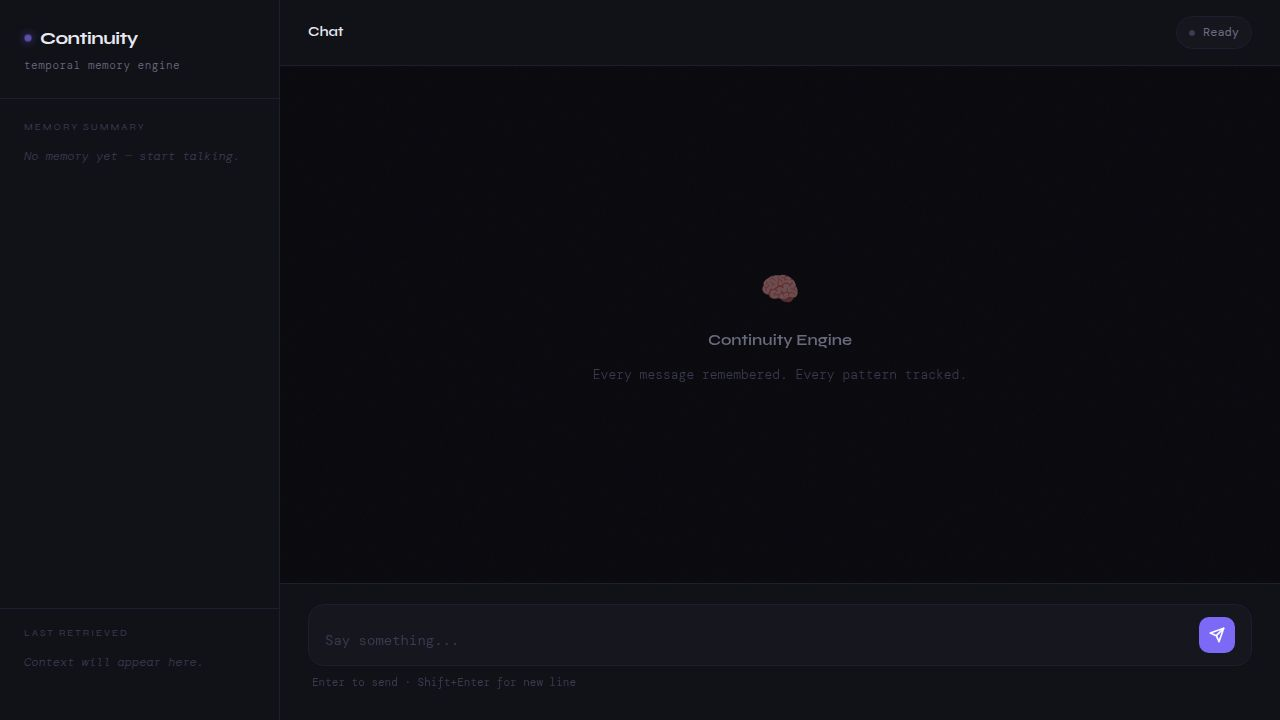
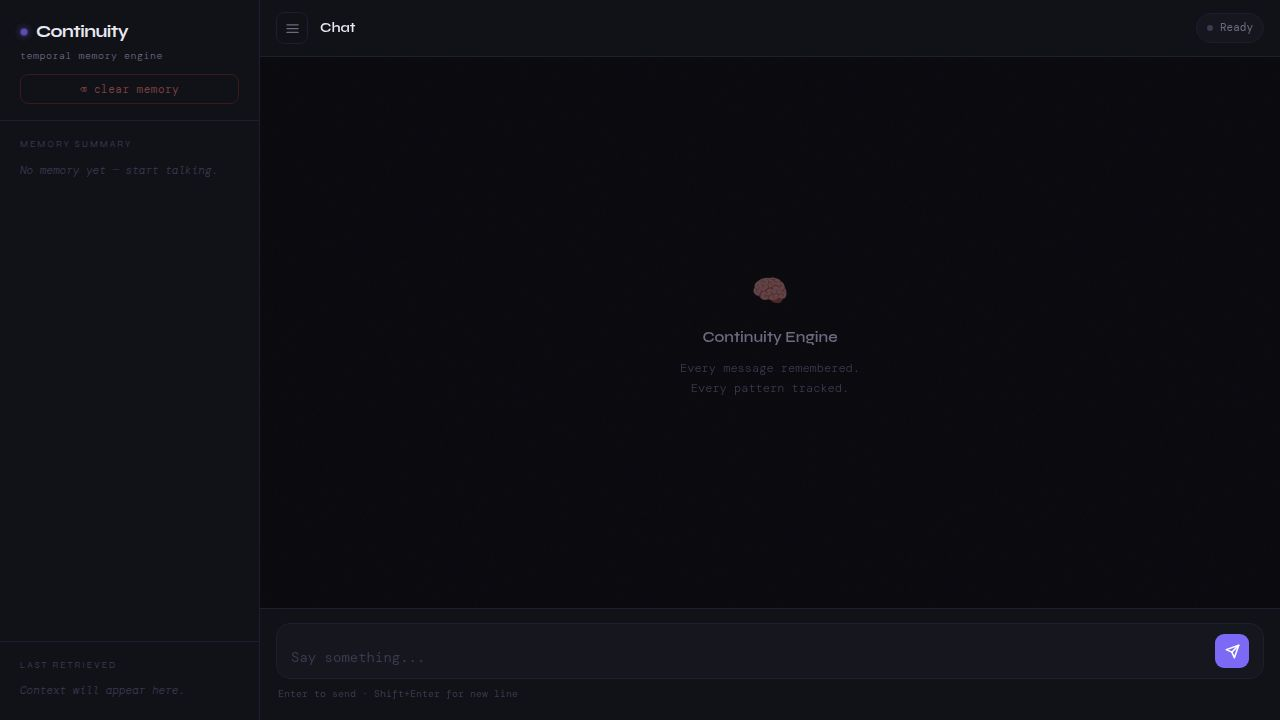
Improve AI responsiveness and fix mobile UI glitches
Enhance AI system prompt for better context adherence and adjust mobile sidebar behavior for improved usability and button accessibility.

Replit-Commit-Author: Agent
Replit-Commit-Session-Id: 379f7388-f360-40ee-a12c-a0aecd8bb303
Replit-Commit-Checkpoint-Type: full_checkpoint
Replit-Commit-Event-Id: c72edeec-4dd7-435f-bc79-50a27c6428c1
Replit-Commit-Screenshot-Url: https://storage.googleapis.com/screenshot-production-us-central1/51529380-f3c0-4dd7-a1a0-9c8892a0a337/379f7388-f360-40ee-a12c-a0aecd8bb303/yf2DJK3
Replit-Helium-Checkpoint-Created: true

diff --git a/continuity_engine/templates/index.html b/continuity_engine/templates/index.html
@@ -555,19 +555,47 @@
     .empty-sub { font-size: 12px; font-family: 'DM Mono', monospace; font-weight: 300; text-align: center; }
 
     /* ── RESPONSIVE ── */
-    @media (max-width: 600px) {
+    @media (max-width: 640px) {
       :root { --sidebar-w: 80vw; }
-      .sidebar { position: absolute; top: 0; left: 0; height: 100%; z-index: 10; }
-      .sidebar.collapsed { width: 0; }
-      .mem-label { display: none; }
+
+      /* on mobile, sidebar slides over the top */
+      .sidebar {
+        position: fixed;
+        top: 0; left: 0;
+        height: 100%;
+        z-index: 20;
+      }
+
+      /* overlay to close sidebar by tapping outside */
+      .sidebar-overlay {
+        display: block;
+        position: fixed;
+        inset: 0;
+        background: rgba(0,0,0,0.5);
+        z-index: 19;
+        opacity: 1;
+        transition: opacity 0.25s;
+      }
+
+      .sidebar.collapsed + .sidebar-overlay,
+      .sidebar-overlay.hidden {
+        opacity: 0;
+        pointer-events: none;
+      }
+
+      .toggle-btn { z-index: 21; }
+      .topbar { z-index: 21; position: relative; }
     }
+
+    /* hide overlay on desktop */
+    .sidebar-overlay { display: none; }
   </style>
 </head>
 <body>
 <div class="app">
 
   <!-- SIDEBAR -->
-  <aside class="sidebar" id="sidebar">
+  <aside class="sidebar collapsed" id="sidebar">
     <div class="sidebar-header">
       <div class="logo">
         <div class="logo-dot"></div>
@@ -593,6 +621,9 @@
       </div>
     </div>
   </aside>
+
+  <!-- mobile overlay (tap to close sidebar) -->
+  <div class="sidebar-overlay hidden" id="sidebar-overlay"></div>
 
   <!-- MAIN -->
   <main class="main">
@@ -653,13 +684,35 @@
   const sidebar      = document.getElementById('sidebar');
   const toggleBtn    = document.getElementById('toggle-btn');
   const clearBtn     = document.getElementById('clear-btn');
+  const overlay      = document.getElementById('sidebar-overlay');
 
   let isLoading = false;
+  const isMobile = () => window.innerWidth <= 640;
 
   /* ── SIDEBAR TOGGLE ── */
+  function openSidebar() {
+    sidebar.classList.remove('collapsed');
+    overlay.classList.remove('hidden');
+  }
+
+  function closeSidebar() {
+    sidebar.classList.add('collapsed');
+    overlay.classList.add('hidden');
+  }
+
+  /* desktop: open by default */
+  if (!isMobile()) openSidebar();
+
   toggleBtn.addEventListener('click', () => {
-    sidebar.classList.toggle('collapsed');
+    if (sidebar.classList.contains('collapsed')) {
+      openSidebar();
+    } else {
+      closeSidebar();
+    }
   });
+
+  /* tap outside on mobile closes sidebar */
+  overlay.addEventListener('click', closeSidebar);
 
   /* ── AUTO-RESIZE TEXTAREA ── */
   function resizeInput() {

diff --git a/continuity_engine/ai.py b/continuity_engine/ai.py
@@ -4,27 +4,30 @@ import requests
 
 def call_ai(user_message, retrieved_context, continuity_summary):
     base_url = os.environ.get("AI_INTEGRATIONS_OPENROUTER_BASE_URL", "https://openrouter.ai/api/v1")
-    api_key = os.environ.get("AI_INTEGRATIONS_OPENROUTER_API_KEY", "")
+    api_key  = os.environ.get("AI_INTEGRATIONS_OPENROUTER_API_KEY", "")
 
     context_lines = "\n".join(
-        f"{msg['role']} [importance:{msg.get('importance',1)} | emotion:{msg.get('emotion','neutral')} | {msg.get('timestamp','')}]: {msg['content']}"
+        f"{msg['role']} [{msg.get('timestamp', '')}]: {msg['content']}"
         for msg in retrieved_context
-    )
+    ) if retrieved_context else "(no prior conversation)"
 
-    system_prompt = f"""You are an AI with genuine temporal memory of this user.
+    has_real_context = bool(retrieved_context)
 
-CONTINUITY SUMMARY:
-{continuity_summary}
+    system_prompt = f"""You are a helpful conversational AI with a persistent memory system.
 
-RETRIEVED CONTEXT:
+MEMORY SUMMARY (what has been learned so far):
+{continuity_summary if continuity_summary.strip() else "(no summary yet — this may be an early conversation)"}
+
+RETRIEVED CONVERSATION HISTORY:
 {context_lines}
 
-Rules:
-- Never say "as an AI" or "I don't have memory"
-- Don't explicitly mention you have memory — just USE it naturally
-- If patterns show stress, acknowledge it subtly
-- If there's a breakthrough after struggle, recognize it
-- Respond like someone who actually knows this person over time"""
+RULES — follow these strictly:
+- Only reference things that appear in the memory/history above. Never invent facts, backstories, or details about the user that are not present.
+- If memory is sparse or empty, simply respond helpfully to what the user just said — do not make things up to sound familiar.
+- Be direct, clear, and conversational. Keep replies focused and appropriately concise.
+- Do not say "as an AI" or "I don't have memory" — just talk naturally.
+- Do not use theatrical, dramatic, or overly emotional language.
+- If the user asks who they are and you have no real context, say honestly that you don't know them yet."""
 
     response = requests.post(
         f"{base_url}/chat/completions",
@@ -36,8 +39,9 @@ Rules:
             "model": "mistralai/mistral-small-2603",
             "messages": [
                 {"role": "system", "content": system_prompt},
-                {"role": "user", "content": user_message}
-            ]
+                {"role": "user",   "content": user_message}
+            ],
+            "max_tokens": 300
         },
         timeout=30
     )
